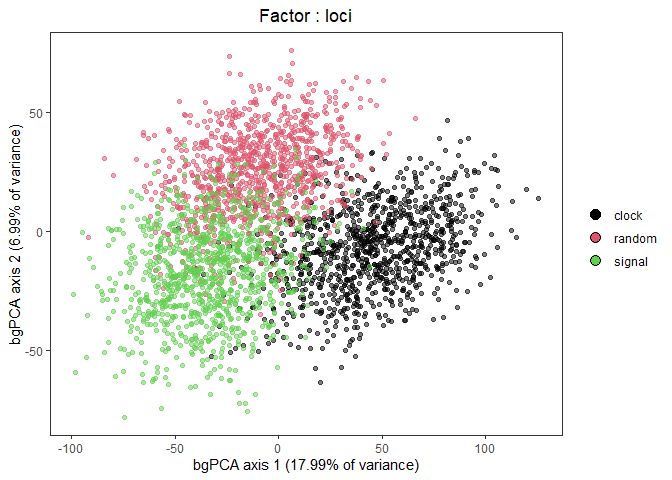
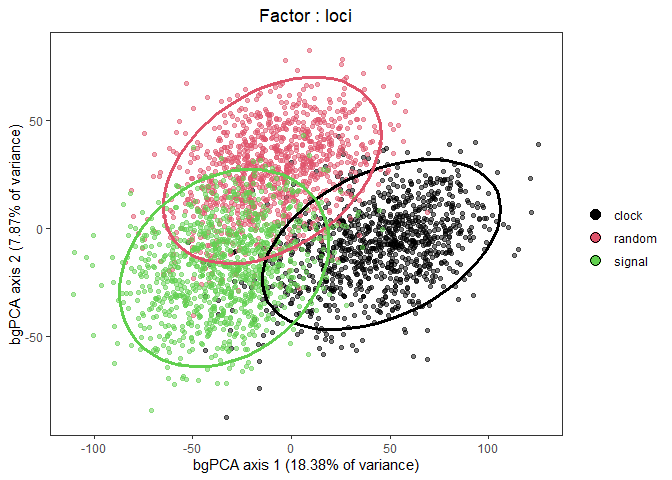
readme fix 4

diff --git a/README.md b/README.md
@@ -99,8 +99,8 @@ list.files(temp)
 #> [3] "randomCATGTR_ln_sample.datedist" "randomGTR_ln_sample.datedist"   
 #> [5] "signalCATGTR_ln_sample.datedist" "signalGTR_ln_sample.datedist"
 
-#Set type of runs and number of chronograms to be retained. Name the listed 
-#elements in type to change factor names:
+#Set type of runs and number of chronograms to be retained. 
+#Name the listed elements in type to change factor names:
 type <- list(loci = c('clock', 'clock', 'random', 'random', 'signal', 'signal'),
              model = c('CATGTR', 'GTR', 'CATGTR', 'GTR', 'CATGTR', 'GTR'))
 sample <- 500
@@ -140,24 +140,24 @@ directions of variation between groups - i.e., the different
 alternatives (levels; e.g., GTR+G vs CAT+GTR+G) associated to a
 particular methodological choice (factor; e.g., model of evolution). The
 function reports the percentage of variation explained by each factor,
-both in relation to the total amount of variation in node ages and for
-each individual bgPC extracted. This information can be used to gauge
-the relative importance of each choice over node age estimation.
+both in relation to the total amount of raw variation in node ages and
+for each individual bgPC extracted. This information can be used to
+gauge the relative importance of each choice over node age estimation.
 
 ``` r
 #Summarize chronospace
 cspace <- chronospace(data)
 #>                 loci (%) model (%) Unaccounted (%)
-#> Total variation 14.80542   4.94622        80.24837
+#> Total variation 14.96326   4.84851        80.18823
 #> _________________________________________________________________________________
 #> --- Results for loci (clock/random/signal) ---
 #>               loci (%) model (%) Unaccounted (%)
-#> bgPC1(17.99%) 11.38766   0.17511         6.42991
-#> bgPC2(6.99%)   3.41776   0.10213         3.47202
+#> bgPC1(18.38%) 11.20975   0.18892         6.97700
+#> bgPC2(7.87%)   3.75350   0.12947         3.98815
 #> ---------------------------------------------------------------------------------
 #> --- Results for model (CATGTR/GTR) ---
-#>               loci (%) model (%) Unaccounted (%)
-#> bgPC1(11.05%)  0.47373   4.94622         5.63404
+#>              loci (%) model (%) Unaccounted (%)
+#> bgPC1(10.5%)    0.537   4.84851          5.1175
 #> ---------------------------------------------------------------------------------
 #>  * All percentages are relative to the total amount of variation in node ages
 ```
@@ -169,10 +169,21 @@ the distribution of trees in the space configured by bgPC axes:
 
 ``` r
 #Plot scatterplot for loci
-plot(cspace, factor = 1, output = "ordination")
+plot(cspace, factor = 1, output = "ordination", 
+     ellipses = TRUE)
 ```
 
 <img src="man/figures/README-unnamed-chunk-7-1.png" width="100%" />
+
+``` r
+
+#Plot scatterplot for loci, show distances between centroids 
+#in multivariate space
+plot(cspace, factor = 1, output = "ordination", 
+     distances = TRUE, pt.alpha = 0.2)
+```
+
+<img src="man/figures/README-unnamed-chunk-7-2.png" width="100%" />
 
 ``` r
 
@@ -180,7 +191,7 @@ plot(cspace, factor = 1, output = "ordination")
 plot(cspace, factor = 2, output = "ordination")
 ```
 
-<img src="man/figures/README-unnamed-chunk-7-2.png" width="100%" />
+<img src="man/figures/README-unnamed-chunk-7-3.png" width="100%" />
 
 Another graphical output of feeding a `"nodeAges"` object to `plot` are
 pairs of chronograms showing the change in node ages at the extremes of
@@ -198,7 +209,7 @@ plot(cspace, factor = 1, output = "extremes")
 ## Dissecting the effect of methodological choices
 
 `"nodeAges"` objects can also be fed to a number of functions that help
-characterizing the impact of methodological choices over particular
+characterize the impact of methodological choices over particular
 aspects of evolutionary history.
 
 `sensitive_nodes` plots the age distribution of the nodes whose ages
@@ -239,7 +250,8 @@ using either the mean or the median (argument `summary`)
 
 ``` r
 #Plot lineage through time plots for each model of evolution
-ltt_sensitivity(echinoid_dates, factor = 1, summary = "median")
+ltt_sensitivity(echinoid_dates, factor = 1, 
+                summary = "median", gscale = TRUE)
 ```
 
 <img src="man/figures/README-unnamed-chunk-11-1.png" width="100%" />
